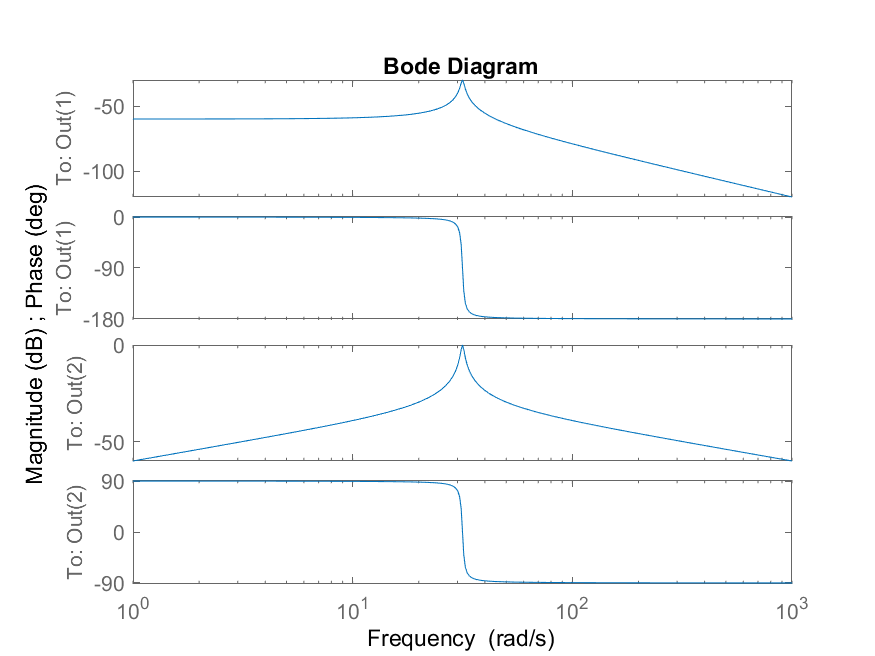
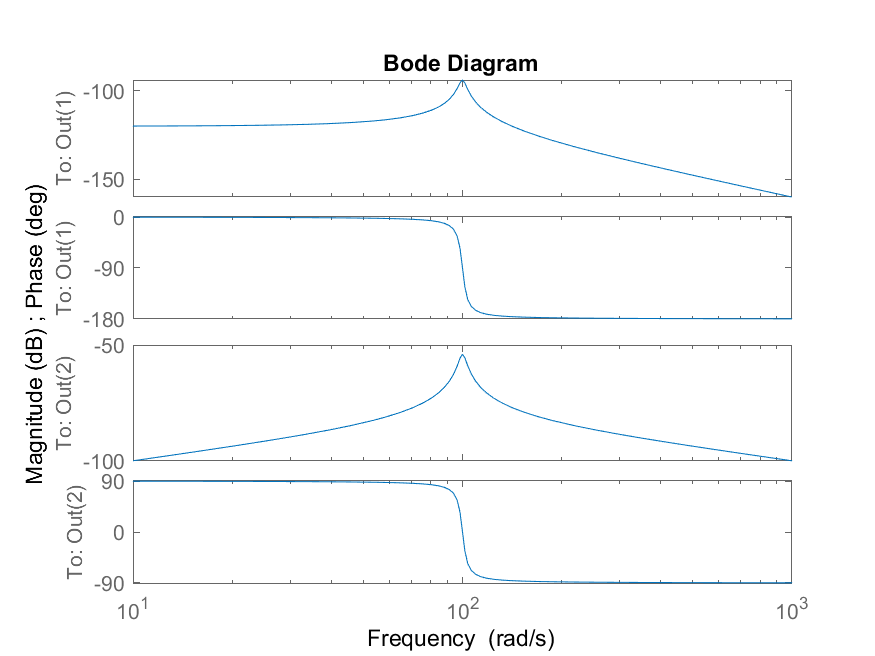
ex4

diff --git a/Lista F/Tarefas/ex_4.m b/Lista F/Tarefas/ex_4.m
@@ -1,9 +1,9 @@
 % Exercício 4
 
 % Parâmetros
-m = 1;
-c = 1;
-k = 1;
+m = 100;
+c = 500;
+k = 1000;
 
 % Matrizes
 A = [0 1; -1000*k/m -c/m];
